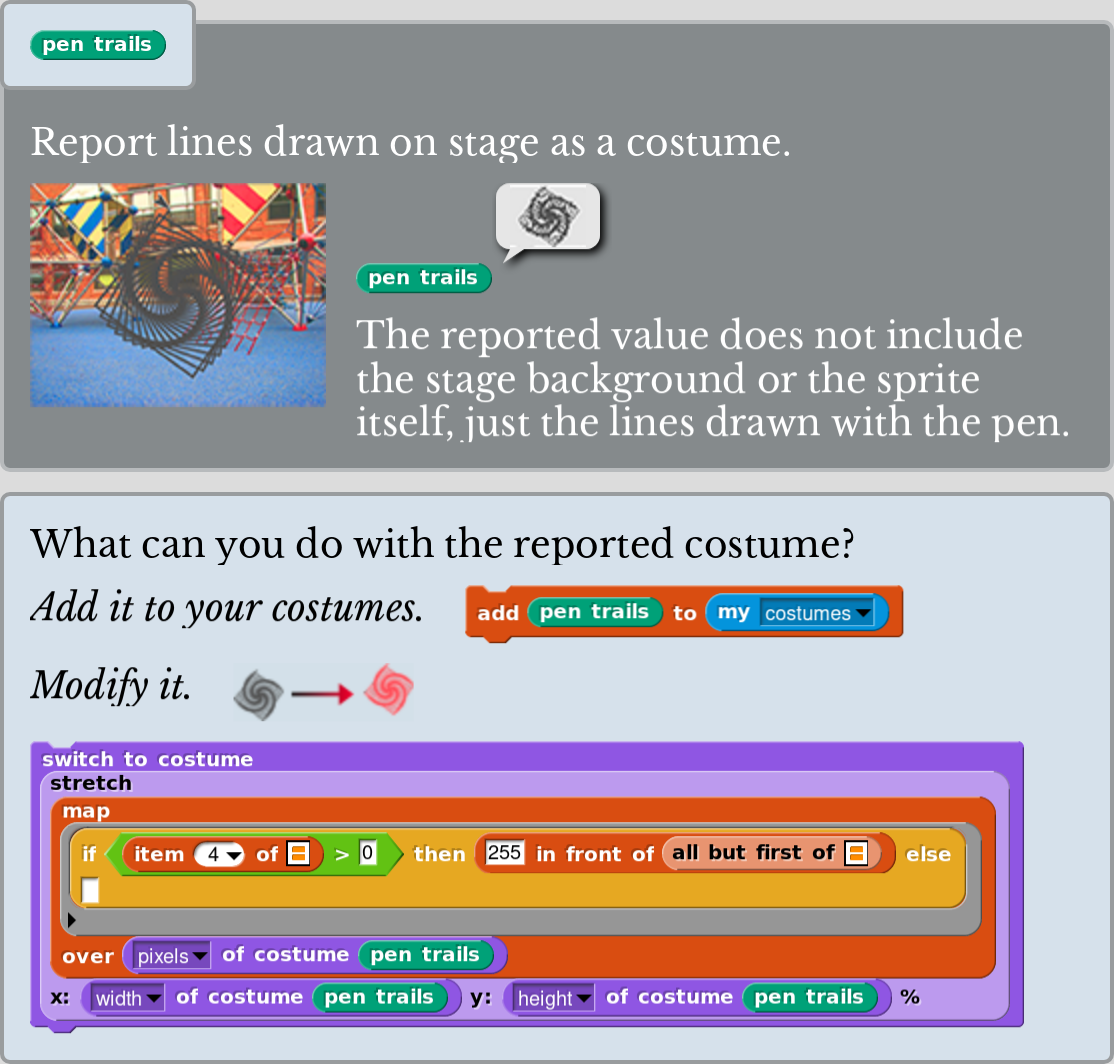
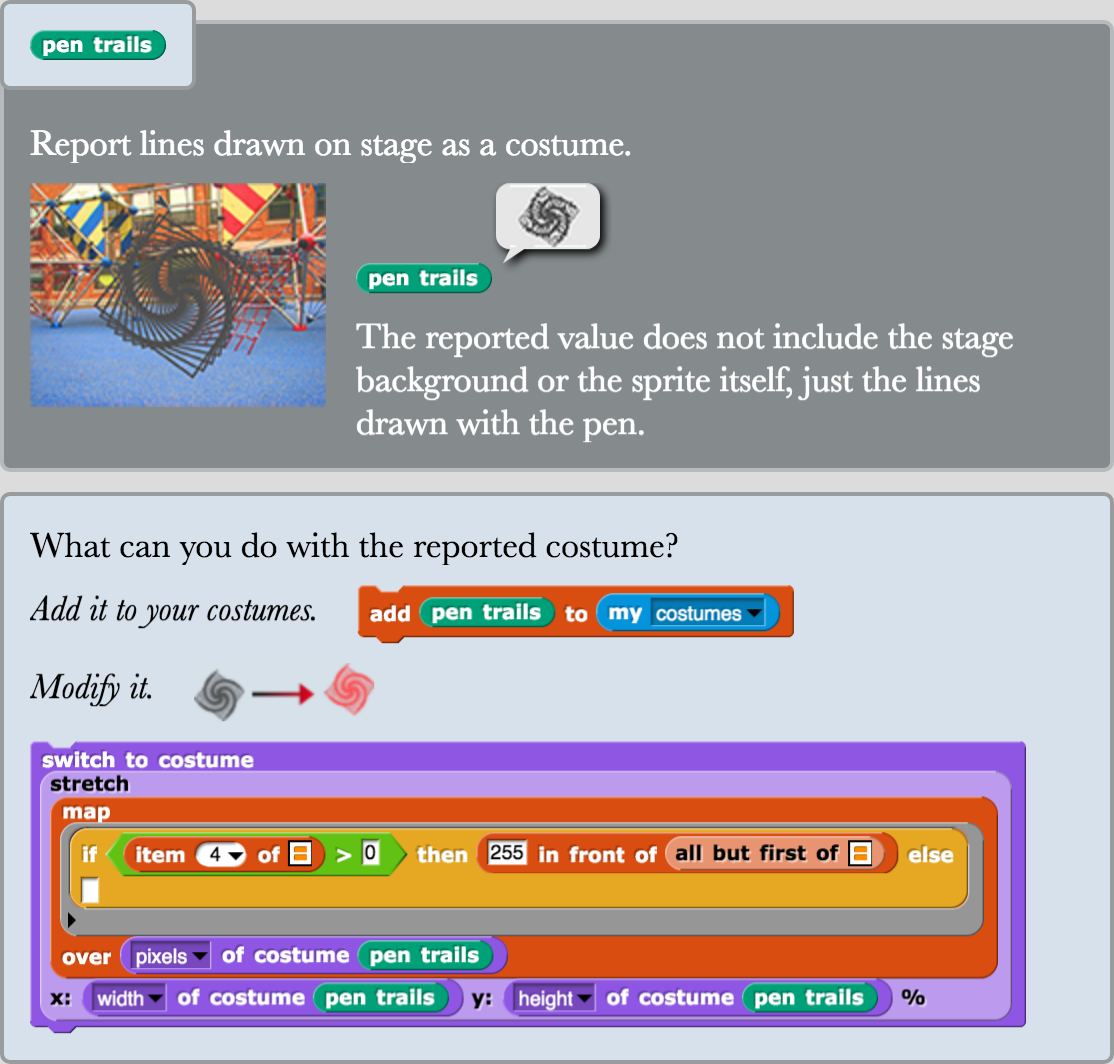
Improve help screen element width handling
Scripts can be scaled even when not in diagrams, and diagrams won’t
take up excessive width if there are no annotations.

diff --git a/libraries/help.js b/libraries/help.js
@@ -536,6 +536,16 @@ SnapSerializer.prototype.loadHelpScreenElement = function (
         break;
     }
     if (morph) {
+        if (morph instanceof BlockMorph && element.attributes.scale) {
+            morph.scriptScale = +element.attributes.scale;
+        }
+        if (
+            morph instanceof BlockMorph
+            && (!element.parent || element.parent.tag !== 'diagram')
+        ) {
+            // contain BlockMorphs in diagrams so they can be scaled
+            morph = screen.createScriptDiagram(morph, [], [], [], textColor);
+        }
         if (
             morph instanceof AlignmentMorph
             || morph instanceof ScriptDiagramMorph
@@ -544,16 +554,23 @@ SnapSerializer.prototype.loadHelpScreenElement = function (
             if (element.attributes['width']) {
                 morph.silentSetWidth(+element.attributes['width']);
                 morph.relativeWidth = 0;
-            } else {
+            } else if (element.attributes['rel-width']) {
                 // width will be adjusted later
                 morph.relativeWidth = +element.attributes['rel-width'] || 1;
+            } else if (
+                morph instanceof ScriptDiagramMorph
+                && morph.annotations.length === 0
+            ) {
+                // consider script diagrams to have a fixed width if there
+                // are no annotations, and not manually given a rel-width
+                morph.relativeWidth = 0;
+            } else {
+                // default to 1
+                morph.relativeWidth = 1;
             }
         }
         if (morph instanceof AlignmentMorph && element.attributes.padding) {
             morph.padding = +element.attributes.padding;
-        }
-        if (morph instanceof BlockMorph && element.attributes.scale) {
-            morph.scriptScale = +element.attributes.scale;
         }
         if (element.attributes.x) {
             morph.shiftRight = +element.attributes.x;
@@ -563,8 +580,7 @@ SnapSerializer.prototype.loadHelpScreenElement = function (
         }
         if (
             !(morph instanceof RichTextMorph
-            || morph instanceof ScriptDiagramMorph
-            || morph instanceof BlockMorph)
+            || morph instanceof ScriptDiagramMorph)
         ) {
             // add children
             element.children.forEach(function (child) {
@@ -977,26 +993,23 @@ ScriptDiagramMorph.prototype.init = function (
     bubbles,
     defaultArrowColor
 ) {
+    var myself = this, scriptWidth, scriptHeight, diagramWidth,
+        diagramHeight, img, scaledImg, ctx;
+
     // additional properties:
     this.script = script;
     this.scriptDisplay = null;
+    this.scriptScale = 1;
     this.annotations = annotations || [];
     this.menus = menus || [];
     this.bubbles = bubbles || [];
     this.defaultArrowColor = defaultArrowColor;
     this.arrows = [];
+    this.widthNoBubble = 0;
+    this.heightNoAnnotations = 0;
 
     // initialize inherited properties:
     ScriptDiagramMorph.uber.init.call(this);
-};
-
-ScriptDiagramMorph.prototype.drawNew = function () {
-    this.image = newCanvas(new Point(1, 1));
-};
-
-ScriptDiagramMorph.prototype.fixLayout = function () {
-    var myself = this, scriptWidth, scriptHeight, scale, diagramWidth,
-        diagramHeight, annotationsHeight, img, scaledImg, ctx;
 
     if (this.script instanceof BlockMorph) {
         scriptWidth = this.script.stackFullBounds().width();
@@ -1005,24 +1018,18 @@ ScriptDiagramMorph.prototype.fixLayout = function () {
         scriptWidth = this.script.width();
         scriptHeight = this.script.height();
     }
-    scale = this.script.scriptScale || 1;
-    scriptWidth *= scale;
+    this.scriptScale = this.script.scriptScale || 1;
+    scriptWidth *= this.scriptScale;
     diagramWidth = scriptWidth;
-    scriptHeight *= scale;
+    scriptHeight *= this.scriptScale;
     diagramHeight = scriptHeight;
 
-    if (this.scriptDisplay) {
-        this.scriptDisplay.destroy();
-    }
     this.scriptDisplay = new Morph();
     this.scriptDisplay.setExtent(new Point(scriptWidth, scriptHeight));
     this.add(this.scriptDisplay);
     this.scriptDisplay.setPosition(this.position());
 
-    this.arrows.forEach(function (arrow) {
-        arrow.destroy();
-    });
-    this.arrows = [];
+    this.widthNoBubble = diagramWidth;
 
     this.bubbles.forEach(function (bubbleValue, i) {
         var annotated, bubble;
@@ -1036,7 +1043,13 @@ ScriptDiagramMorph.prototype.fixLayout = function () {
             bubble.fullChanged();
             bubble.setTop(myself.top());
             bubble.setLeft(myself.scriptDisplay.right() + 2);
-            myself.scriptDisplay.setTop(bubble.bottom());
+            myself.scriptDisplay.setTop(
+                Math.max(script.top(), bubble.bottom())
+            );
+            diagramWidth = Math.max(
+                diagramWidth,
+                bubble.fullBounds().right() - myself.left()
+            );
             diagramHeight = Math.max(
                 diagramHeight,
                 myself.scriptDisplay.bottom() - myself.top()
@@ -1051,21 +1064,27 @@ ScriptDiagramMorph.prototype.fixLayout = function () {
             myself.add(menu);
             menu.setPosition(
                 myself.scriptDisplay.position()
-                    .add(annotated.rightCenter().multiplyBy(scale))
-                    .add(new Point(-10, 5))
+                    .add(
+                        annotated.rightCenter().add(new Point(-10, 5))
+                            .multiplyBy(myself.scriptScale)
+                    )
+            );
+            myself.widthNoBubble = Math.max(
+                myself.widthNoBubble,
+                menu.fullBounds().right() - myself.left()
             );
             diagramWidth = Math.max(
-                scriptWidth,
-                menu.right() - myself.left()
+                diagramWidth,
+                menu.fullBounds().right() - myself.left()
             );
             diagramHeight = Math.max(
                 diagramHeight,
-                menu.bottom() - myself.top()
+                menu.fullBounds().bottom() - myself.top()
             );
         }
     });
 
-    annotationsHeight = this.addAnnotations(diagramWidth, scale);
+    this.heightNoAnnotations = diagramHeight;
 
     this.script.forAllChildren(function (child) {
         if (child.annotationHighlight) {
@@ -1083,12 +1102,26 @@ ScriptDiagramMorph.prototype.fixLayout = function () {
     ctx = scaledImg.getContext('2d');
     ctx.drawImage(img, 0, 0, scriptWidth, scriptHeight);
     this.scriptDisplay.image = scaledImg;
-    this.setHeight(Math.max(diagramHeight, annotationsHeight));
+    // default extent doesn't include annotations
+    this.setWidth(diagramWidth);
+    this.setHeight(diagramHeight);
 };
 
-ScriptDiagramMorph.prototype.addAnnotations = function (
-    diagramWidth, scale
-) {
+ScriptDiagramMorph.prototype.drawNew = function () {
+    this.image = newCanvas(new Point(1, 1));
+};
+
+ScriptDiagramMorph.prototype.fixLayout = function () {
+    var annotationsHeight;
+    this.arrows.forEach(function (arrow) {
+        arrow.destroy();
+    });
+    this.arrows = [];
+    annotationsHeight = this.addAnnotations();
+    this.setHeight(Math.max(annotationsHeight, this.heightNoAnnotations));
+};
+
+ScriptDiagramMorph.prototype.addAnnotations = function () {
     var myself = this, minTop, annotationsHeight, horizontalArrows, i,
         lastCreated, annotation, arrow, arrowStart, arrowEnd,
         arrowStartMorph, arrowEndMorph, allArrows;
@@ -1107,7 +1140,7 @@ ScriptDiagramMorph.prototype.addAnnotations = function (
         var localMinTop = minTop, localMaxBottom = -1;
         for (i = arrowIdx; i > lastCreated; i--) {
             annotation = myself.addAnnotation(
-                i + 1, diagramWidth, scale, localMinTop, localMaxBottom
+                i + 1, localMinTop, localMaxBottom
             );
             if (annotation) {
                 minTop = Math.max(minTop, annotation.bottom());
@@ -1120,9 +1153,7 @@ ScriptDiagramMorph.prototype.addAnnotations = function (
         lastCreated = arrowIdx;
     });
     for (i = lastCreated + 1; i < this.annotations.length; i++) {
-        annotation = this.addAnnotation(
-            i + 1, diagramWidth, scale, minTop, -1
-        );
+        annotation = this.addAnnotation(i + 1, minTop, -1);
         if (annotation) {
             minTop = annotation.bottom();
             annotationsHeight = Math.max(
@@ -1138,11 +1169,11 @@ ScriptDiagramMorph.prototype.addAnnotations = function (
             break;
         }
         arrowStart = this.scriptDisplay.position().add(
-            arrowStartMorph.center().multiplyBy(scale)
+            arrowStartMorph.center().multiplyBy(this.scriptScale)
         );
         arrowEndMorph = this.getAnnotatedMorph('annotationArrowEnd', i);
         arrowEnd = this.scriptDisplay.position().add(
-            arrowEndMorph.center().multiplyBy(scale)
+            arrowEndMorph.center().multiplyBy(this.scriptScale)
         );
         allArrows = arrowEndMorph.annotationArrowEnd
             .split(',')
@@ -1176,12 +1207,12 @@ ScriptDiagramMorph.prototype.addAnnotations = function (
 };
 
 ScriptDiagramMorph.prototype.addAnnotation = function (
-    id, diagramWidth, scale, minTop, maxBottom
+    id, minTop, maxBottom
 ) {
     var annotation, annotated, annotationX, annotationWidth,
         arrow, arrowStart, arrowEnd, lineHeight;
 
-    annotationX = this.left() + diagramWidth + this.margin;
+    annotationX = this.left() + this.widthNoBubble + this.margin;
     annotationWidth = this.right() - annotationX;
 
     annotation = this.annotations[id - 1];
@@ -1193,7 +1224,7 @@ ScriptDiagramMorph.prototype.addAnnotation = function (
     this.add(annotation);
     if (annotation.annotationArrowDetour) {
         arrowEnd = this.scriptDisplay.position().add(
-            annotated.center().multiplyBy(scale)
+            annotated.center().multiplyBy(this.scriptScale)
         );
     } else if (
         annotated instanceof CommandBlockMorph
@@ -1206,15 +1237,15 @@ ScriptDiagramMorph.prototype.addAnnotation = function (
                 // use y of center of label
                 ? annotated.parts()[0].center().y
                 : annotated.center().y
-        ).multiplyBy(scale));
+        ).multiplyBy(this.scriptScale));
     } else if (id === 1) {
         arrowEnd = this.scriptDisplay.position().add(new Point(
             annotated.right(),
             annotated.center().y
-        ).multiplyBy(scale));
+        ).multiplyBy(this.scriptScale));
     } else {
         arrowEnd = this.scriptDisplay.position().add(
-            annotated.bottomCenter().multiplyBy(scale)
+            annotated.bottomCenter().multiplyBy(this.scriptScale)
         );
     }
 

diff --git a/help/XML.md b/help/XML.md
@@ -4,6 +4,14 @@
 
 ```
 <help-screen version="1">
+    <libraries>
+        <!-- Optional -->
+        <library filename="bignumbers.xml"/>
+        <!--
+            Put libraries here so their blocks can be used in the help
+            screen.
+        -->
+    </libraries>
     <blocks>
         <!-- Optional -->
         <!--
@@ -58,23 +66,25 @@ Aligns its contents in a row.
 | width | number | none |
 
 Some elements, like `<script>`, have a fixed width, while others, like `<p>`,
-have a variable width. By default, variable-width elements take up as much
-horizontal space as needed. If the contents overflow, they take up as much
-horizontal space as possible, dividing it evenly amongst themselves.
+have a variable width. By default, paragraphs take up as much horizontal
+space as needed. If the contents overflow, they take up as much horizontal
+space as possible, dividing it evenly among themselves.
 ```
 <column>
     <p>I am my parent's width.</p>
-    <p>I am also my parent's width.
+    <p>I am also my parent's width.</p>
 </column>
 <row>
     <p>I am half my parent's width.</p>
     <p>I am also half my parent's width.</p>
 </row>
 ```
+Columns and script diagrams with text annotations are also considered
+variable-width and will evenly divide horizontal space among themselves.
 
-The `rel-width` (relative width) attribute can be used to change this, by
-specifying elements' widths as a ratio. For example, the widths of these
-elements are 2:1:
+The `rel-width` (relative width) attribute can be used to change this
+behavior, by specifying elements' widths as a ratio. For example, the widths
+of these elements are 2:1:
 ```
 <row>
     <p rel-width="1">I am one-third my parent's width.</p>
@@ -113,7 +123,7 @@ Aligns its contents in a column.
 | --- | --- | --- | --- |
 | padding | number | 10 | How far apart the content elements are. | 
 | width | number | none |
-| rel-width | number | none | See `<row>`. |
+| rel-width | number | 1 | See `<row>`. |
 
 ## Content Elements
 
@@ -142,7 +152,7 @@ Two:
 | Attribute | Value | Default | Comment |
 | --- | --- | --- | --- |
 | width | number | none |
-| rel-width | number | none | See `<row>`. |
+| rel-width | number | 1 | See `<row>`. |
 
 ### `<img>`
 
@@ -160,16 +170,17 @@ A script. This can just be copied and pasted from a project.
 
 | Attribute | Value | Default | Comment |
 | --- | --- | --- | --- |
-| scale | number | 1 | Changes the size of the script. Only works when in a diagram. |
+| scale | number | 1 | Changes the size of the script. |
 
 ### `<block-definition>`
 
-Displays a custom block definition, taken from the `<blocks>` element.
+Displays a custom block definition, taken from the libraries in `<libraries>`
+or the block definitions in `<blocks>`.
 
 | Attribute | Value | Default | Comment |
 | --- | --- | --- | --- |
 | s | the custom block's spec | none | This is the same block spec used in `<custom-block>` elements in a `<script>`. |
-| scale | number | 1 | Changes the size of the script. Only works when in a diagram. |
+| scale | number | 1 | Changes the size of the script. |
 
 ### `<menu>`
 
@@ -226,7 +237,7 @@ or a menu:
 | Attribute | Value | Default | Comment |
 | --- | --- | --- | --- |
 | width | number | none |
-| rel-width | number | none | See `<row>`. | 
+| rel-width | number | 1 when there are annotations, none otherwise | See `<row>`. | 
 
 Attributes for script/menu components:
 
